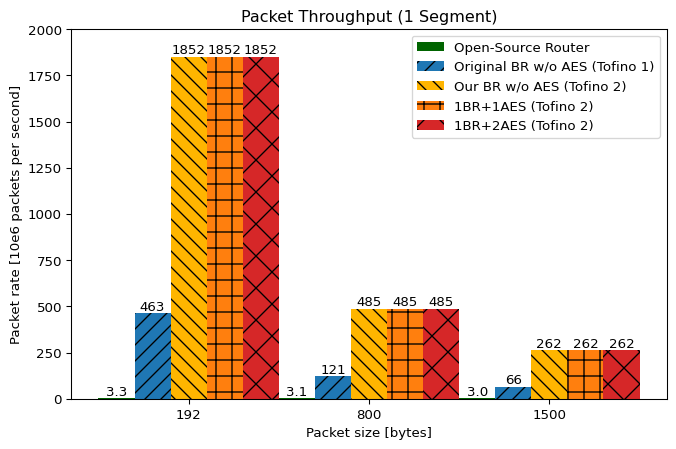
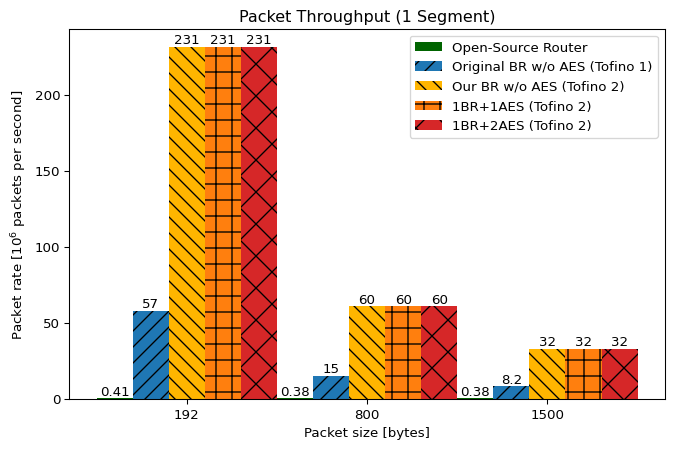
Fix incorrect BR packet throughput plots
The packet per second throughput in the border router evaluation was
incorrectly scaled by a factor of eight. The packet generator and raw
measurements are unaffected, but the diagrams pkts_1seg and pkt_2seg had
incorrect values.

The plotting script was erroneously multiplying both the number of bytes
(to obtain bits) and the number of packets per second with eight. This
patch corrects the scaling for the number of packets per second and
updates the diagrams. The new diagrams show the correct lower values,
but note that the relative performance of the router implementations is
not changed as they all have been affected by the same mistake. The
throughput in bytes per seconds is also not affected and shows correct
values in all plots.

diff --git a/eval/scion-br/plot/plot_eval.py b/eval/scion-br/plot/plot_eval.py
@@ -151,7 +151,7 @@ def plot_bars(data, path_type: str, bar_width: float=0.2):
             gbps = [] # gigabit per second
             for res in exp_res:
                 rx_timedelta = 1e-9 * float((res["rx_last"] - res["rx_first"]) % 2**48)
-                mpps.append(8e-6 * res["total_rx_pkts"] / rx_timedelta)
+                mpps.append(1e-6 * res["total_rx_pkts"] / rx_timedelta)
                 gbps.append(8e-9 * res["total_rx_bytes"] / rx_timedelta)
             mpps = np.array(mpps)
             gbps = np.array(gbps)
@@ -174,16 +174,16 @@ def plot_bars(data, path_type: str, bar_width: float=0.2):
                 label=EXP_LABELS[exp], **EXP_STYLE[exp])
             for pos, value in zip(x + offset, y):
                 if value < 10:
-                    label = np.round(value, decimals=1)
+                    label = np.round(value, decimals=2)
                 else:
-                    label = int(np.round(value, decimals=0))
+                    label = int(np.round(value, decimals=1))
                 ax.text(pos, value, str(label), ha="center", va="bottom")
             offset += bar_width
         except KeyError:
             pass
     ax.set_xticks(x + 0.5 * (offset - bar_width), PKT_SIZES)
     ax.set_xlabel("Packet size [bytes]")
-    ax.set_ylabel("Packet rate [10e6 packets per second]")
+    ax.set_ylabel("Packet rate [$10^6$ packets per second]")
     ax.legend()
 
     # Plot bandwidth
@@ -280,14 +280,12 @@ def main():
 
     pkts, bw = plot_bars(data, "1seg")
     pkts.axes[0].set_title("Packet Throughput (1 Segment)")
-    pkts.axes[0].set_ylim(top=2000)
     bw.axes[0].set_title("Bandwidth (1 Segment)")
     pkts.savefig(dir / f"pkts_1seg.{fmt}", bbox_inches="tight")
     bw.savefig(dir / f"bw_1seg.{fmt}", bbox_inches="tight")
 
     pkts, bw = plot_bars(data, "2seg")
     pkts.axes[0].set_title("Packet Throughput (2 Segments)")
-    pkts.axes[0].set_ylim(top=2000)
     bw.axes[0].set_title("Bandwidth (2 Segments)")
     pkts.savefig(dir / f"pkts_2seg.{fmt}", bbox_inches="tight")
     bw.savefig(dir / f"bw_2seg.{fmt}", bbox_inches="tight")
